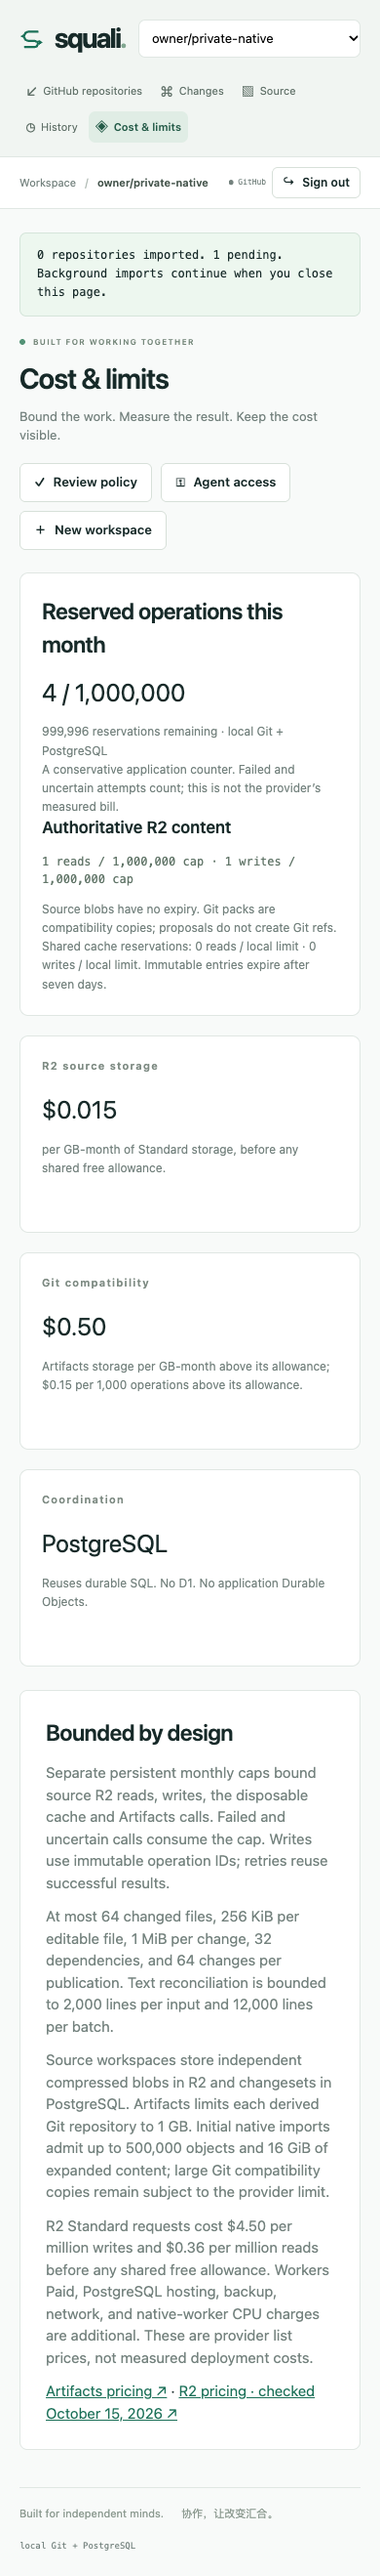
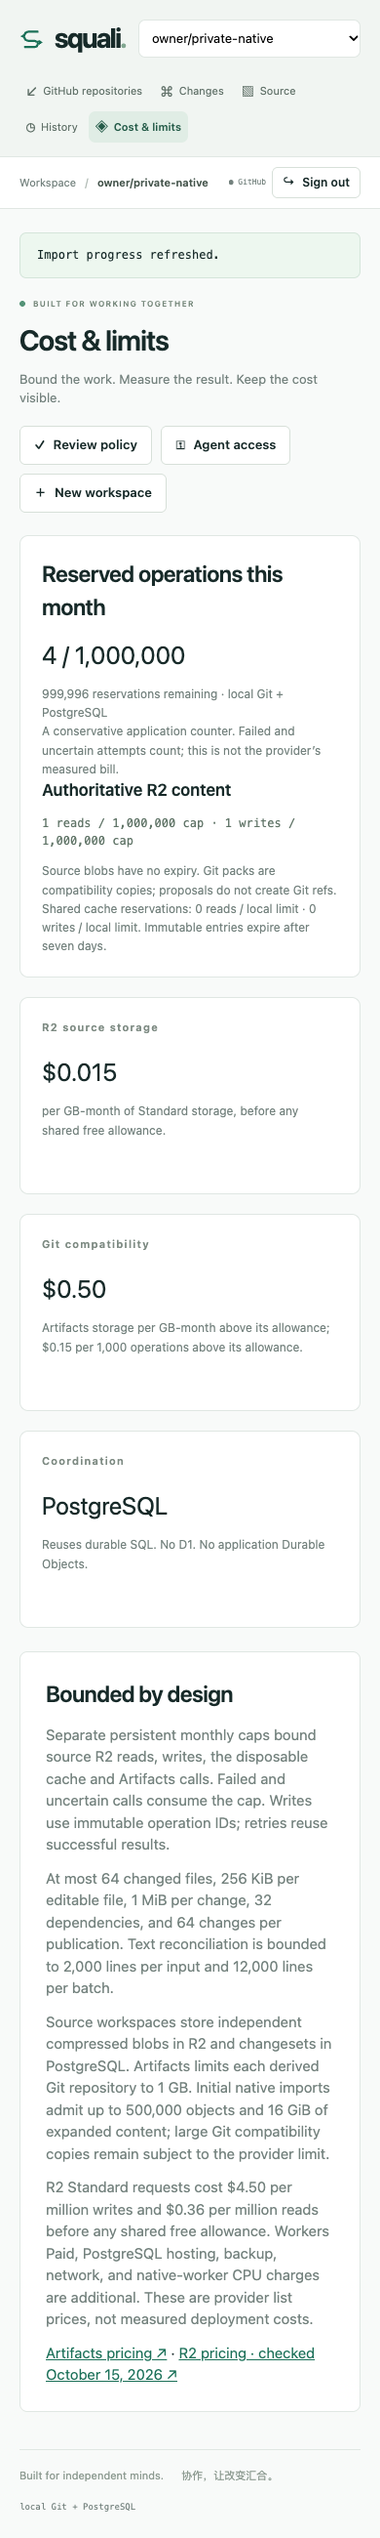
Refresh background import progress and reveal completed workspaces

diff --git a/public/app.js b/public/app.js
@@ -247,8 +247,9 @@ async function renderGitHub() {
   }
   if (!state.githubRepos.length && state.githubNext) await fetchGitHubPage();
   state.imports = (await api('/github/imports')).imports;
+  if (await revealCompletedImports()) return;
   const imported = new Map(state.imports.map(row => [row.repositoryId, row]));
-  $('#content').innerHTML = `<section class="panel"><div class="panel-head"><h2 data-font-gated>GitHub repositories <small>/ ${state.githubRepos.length}${state.githubNext ? '+' : ''}</small></h2></div><div class="panel-body"><p class="muted" data-font-gated>Import independent private copies, including Git history, branches, and tags. GitHub stays unchanged. Only repositories authorized by GitHub are listed.</p><p class="muted" data-font-gated>Git LFS file payloads and submodule repositories are not copied. Their pointers and links remain in Git. ${state.nativeImports?'Native imports: up to 2 GiB of Git storage, 500,000 objects, and 16 GiB of expanded content.':'Legacy imports: up to 512 MiB per transfer.'} Workspace and monthly operation caps also apply.</p><div class="import-actions"><button class="button primary" id="import-all" aria-label="Import all repositories"><span aria-hidden="true">↙</span>${gate('Import all repositories')}</button><button class="button" id="import-selected" aria-label="Import selected"><span aria-hidden="true">＋</span>${gate('Import selected')}</button><button class="button" id="import-resume" aria-label="Resume pending imports"><span aria-hidden="true">↻</span>${gate('Resume pending')}</button><button class="button" id="import-pause" aria-label="Pause imports"><span aria-hidden="true">Ⅱ</span>${gate('Pause')}</button></div><div id="import-progress" role="status" class="notice">${state.imports.filter(r => r.state === 'complete').length} complete · ${state.imports.filter(r => r.state !== 'complete').length} pending</div></div><div class="repository-list">${state.githubRepos.map(repo => { const job = imported.get(repo.id); return `<label class="repository-row"><input type="checkbox" value="${repo.id}" aria-label="Select ${escape(repo.full_name)}" ${job?.state === 'complete' ? 'disabled' : ''}><span><strong data-font-gated>${escape(repo.full_name)}</strong><span class="muted repository-meta" data-font-gated>${repo.private ? 'Private' : 'Public'} · ${escape(repo.default_branch || 'Empty')} · ${Number(repo.size).toLocaleString()} KiB</span>${job?.error ? `<span class="notice error">${escape(job.error)}</span>` : ''}</span>${tag(job?.state ?? 'available')}</label>`; }).join('')}</div>${state.githubNext ? '<div class="panel-body"><button class="button" id="github-more" aria-label="Load more repositories">↓ '+gate('Load more')+'</button></div>' : ''}</section>`;
+  $('#content').innerHTML = `<section class="panel"><div class="panel-head"><h2 data-font-gated>GitHub repositories <small>/ ${state.githubRepos.length}${state.githubNext ? '+' : ''}</small></h2></div><div class="panel-body"><p class="muted" data-font-gated>Import independent private copies, including Git history, branches, and tags. GitHub stays unchanged. Only repositories authorized by GitHub are listed.</p><p class="muted" data-font-gated>Git LFS file payloads and submodule repositories are not copied. Their pointers and links remain in Git. ${state.nativeImports?'Native imports: up to 2 GiB of Git storage, 500,000 objects, and 16 GiB of expanded content.':'Legacy imports: up to 512 MiB per transfer.'} Workspace and monthly operation caps also apply.</p><div class="import-actions"><button class="button primary" id="import-all" aria-label="Import all repositories"><span aria-hidden="true">↙</span>${gate('Import all repositories')}</button><button class="button" id="import-selected" aria-label="Import selected"><span aria-hidden="true">＋</span>${gate('Import selected')}</button><button class="button" id="import-refresh" aria-label="Refresh import progress"><span aria-hidden="true">↻</span>${gate('Refresh progress')}</button><button class="button" id="import-resume" aria-label="Resume pending imports"><span aria-hidden="true">↻</span>${gate('Resume pending')}</button><button class="button" id="import-pause" aria-label="Pause imports"><span aria-hidden="true">Ⅱ</span>${gate('Pause')}</button></div><div id="import-progress" role="status" class="notice">${state.imports.filter(r => r.state === 'complete').length} complete · ${state.imports.filter(r => r.state !== 'complete').length} pending</div></div><div class="repository-list">${state.githubRepos.map(repo => { const job = imported.get(repo.id); return `<label class="repository-row"><input type="checkbox" value="${repo.id}" aria-label="Select ${escape(repo.full_name)}" ${job?.state === 'complete' ? 'disabled' : ''}><span><strong data-font-gated>${escape(repo.full_name)}</strong><span class="muted repository-meta" data-font-gated>${repo.private ? 'Private' : 'Public'} · ${escape(repo.default_branch || 'Empty')} · ${Number(repo.size).toLocaleString()} KiB</span>${job?.error ? `<span class="notice error">${escape(job.error)}</span>` : ''}</span>${tag(job?.state ?? 'available')}</label>`; }).join('')}</div>${state.githubNext ? '<div class="panel-body"><button class="button" id="github-more" aria-label="Load more repositories">↓ '+gate('Load more')+'</button></div>' : ''}</section>`;
   for(const job of state.imports){const row=[...document.querySelectorAll('.repository-row')].find(element=>element.querySelector('input')?.value===String(job.repositoryId));if(!row)continue;row.dataset.importId=job.id;const detail=document.createElement('span');detail.className='repository-meta notice import-detail';row.querySelector('strong').parentElement.append(detail);}
   updateImportProgress();scheduleImportPoll();
   if ($('#github-more')) $('#github-more').onclick = e => busy(e.currentTarget, async () => { await fetchGitHubPage(); await renderGitHub(); });
@@ -260,18 +261,24 @@ async function renderGitHub() {
   };
   $('#import-all').onclick = e => busy(e.currentTarget, () => enqueue(true));
   $('#import-selected').onclick = e => busy(e.currentTarget, () => enqueue(false));
+  $('#import-refresh').onclick = e => busy(e.currentTarget,async()=>{state.imports=(await api('/github/imports')).imports;state.importPolls=0;await revealCompletedImports();updateImportProgress();scheduleImportPoll();status('Import progress refreshed.');});
   $('#import-resume').onclick = e => busy(e.currentTarget, continueImports);
   $('#import-pause').onclick = e => busy(e.currentTarget,async()=>{state.importStop=true;clearTimeout(state.importTimer);const rows=(await api('/github/imports')).imports;for(const row of rows.filter(r=>r.engine==='source'&&['queued','running','pausing'].includes(r.state)))await api('/github/imports/'+row.id+'/pause',{});await renderGitHub();status(state.imports.some(r=>r.state==='pausing')?'Pausing. Uploaded objects and native Git cache will be saved.':'Paused. Uploaded objects and native Git cache are saved.');});
 }
+async function revealCompletedImports(){
+  if (!state.imports.some(job => job.state === 'complete' && !state.projects.some(project => project.id === job.projectId))) return false;
+  await loadProjects();
+  return true;
+}
 function updateImportProgress(){
  const summary=$('#import-progress');if(!summary)return;
- const completed=state.imports.filter(r=>r.state==='complete').length;summary.textContent=`${completed} complete · ${state.imports.length-completed} pending`;
+ const completed=state.imports.filter(r=>r.state==='complete').length;summary.textContent=`${completed} complete · ${state.imports.length-completed} pending${state.importPolls>=240?' · Automatic updates paused. Use Refresh progress to check again.':''}`;
  for(const job of state.imports){const row=document.querySelector(`[data-import-id="${job.id}"]`);if(!row)continue;const detail=row.querySelector('.import-detail'),badge=row.querySelector('.badge'),p=job.progress;badge.textContent=job.state;detail.textContent=job.engine==='source'?`${p?.stage??job.state}${p?.sourceObjects?' · '+Number(p.objectsProcessed??0).toLocaleString()+' / '+Number(p.sourceObjects).toLocaleString()+' objects':''}${p?.commitsProcessed?' · '+Number(p.commitsProcessed).toLocaleString()+' changesets':''} · Native attempts: ${job.nativeAttempts} / 3`:`Transfer attempts: ${job.attempts} / 3`;if(job.state==='complete')row.querySelector('input').disabled=true;}
 }
 function scheduleImportPoll(){
  clearTimeout(state.importTimer);
  if(state.view!=='github'||document.hidden||state.importPolls>=240||!state.imports.some(r=>r.engine==='source'&&['queued','running','pausing'].includes(r.state)))return;
- const generation=state.authGeneration;state.importTimer=setTimeout(async()=>{if(state.view!=='github'||document.hidden||generation!==state.authGeneration)return;try{state.importPolls++;const value=await api('/github/imports');if(generation!==state.authGeneration)return;state.imports=value.imports;updateImportProgress();scheduleImportPoll();}catch(error){status(error.message,true);}},15000);
+ const generation=state.authGeneration;state.importTimer=setTimeout(async()=>{if(state.view!=='github'||document.hidden||generation!==state.authGeneration)return;try{state.importPolls++;const value=await api('/github/imports');if(generation!==state.authGeneration)return;state.imports=value.imports;await revealCompletedImports();updateImportProgress();scheduleImportPoll();}catch(error){status(error.message,true);}},15000);
 }
 document.addEventListener('visibilitychange',scheduleImportPoll);
 async function continueImports() {

diff --git a/tests/native-jobs.test.ts b/tests/native-jobs.test.ts
@@ -36,8 +36,9 @@ test('one-click private imports run outside the browser, preserve native history
   const calls=credentialCalls;assert.equal((await call('/github/imports/'+job.id+'/run',{})).body.state,'complete');assert.equal(transfers,1);assert.equal(credentialCalls,calls);
   assert.equal((await call('/github/imports',undefined,'other')).body.imports.length,0);assert.equal((await call('/projects/'+job.projectId,undefined,'other')).status,403);
   await server.sql`UPDATE weave_github_imports SET state='queued',attempts=3 WHERE id=${job.id}`;await server.sql`UPDATE weave_native_jobs SET state='queued',progress=${server.sql.json({stage:'objects',objectsProcessed:128,sourceObjects:256,commitsProcessed:0,uploadedBytes:4096})} WHERE import_id=${job.id}`;
+  await server.sql`UPDATE weave_projects SET state='importing' WHERE id=${job.projectId}`;
   const {chromium}=await import('@playwright/test');const browser=await chromium.launch({executablePath:process.env.SQUALI_BROWSER??(process.platform==='darwin'?'/Applications/Brave Browser.app/Contents/MacOS/Brave Browser':'/usr/bin/google-chrome'),headless:true});
-  try{const page=await browser.newPage();page.setDefaultTimeout(5000);await page.route('https://use.typekit.net/**',r=>r.abort());await page.route('https://'+domain+'/**',r=>r.fulfill({contentType:'application/javascript',body:`window.Clerk={user:{id:'owner',externalAccounts:[{provider:'github',approvedScopes:'repo'}]},session:{getToken:async()=>${JSON.stringify(token())}},load:async()=>{},addListener:()=>{}};`}));await page.goto(server.url);await page.getByText('128 / 256 objects',{exact:false}).waitFor();await page.getByRole('button',{name:'Pause imports',exact:true}).click();await page.getByText('Paused. Uploaded objects and native Git cache are saved.',{exact:true}).waitFor();assert.equal((await call('/github/imports')).body.imports[0].state,'paused');await page.getByRole('button',{name:'Resume pending imports',exact:true}).click();await page.getByText('Background imports continue when you close this page.',{exact:false}).waitFor();assert.equal((await call('/github/imports')).body.imports[0].state,'queued');await page.setViewportSize({width:390,height:844});assert.equal(await page.evaluate(()=>document.documentElement.scrollWidth<=innerWidth),true);await page.screenshot({path:'docs/evidence/2026-10-15-source/native-import-mobile.png',fullPage:true});await page.getByRole('button',{name:'Cost & limits',exact:true}).click();await page.getByTestId('source-reads').waitFor();const usage=(await call('/usage')).body;assert.equal(await page.getByTestId('source-reads').textContent(),usage.source.reads.toLocaleString());assert.equal(await page.getByTestId('source-writes').textContent(),usage.source.writes.toLocaleString());await page.screenshot({path:'docs/evidence/2026-10-15-source/source-cost-mobile.png',fullPage:true});}finally{await browser.close();}
+  try{const page=await browser.newPage();page.setDefaultTimeout(5000);await page.route('https://use.typekit.net/**',r=>r.abort());await page.route('https://'+domain+'/**',r=>r.fulfill({contentType:'application/javascript',body:`window.Clerk={user:{id:'owner',externalAccounts:[{provider:'github',approvedScopes:'repo'}]},session:{getToken:async()=>${JSON.stringify(token())}},load:async()=>{},addListener:()=>{}};`}));await page.goto(server.url);await page.getByText('128 / 256 objects',{exact:false}).waitFor();let runCalls=0;page.on('request',request=>{if(request.url().endsWith('/run'))runCalls++;});await server.sql`UPDATE weave_native_jobs SET progress=${server.sql.json({stage:'objects',objectsProcessed:192,sourceObjects:256})} WHERE import_id=${job.id}`;await page.getByRole('button',{name:'Refresh import progress',exact:true}).click();await page.getByText('192 / 256 objects',{exact:false}).waitFor();assert.equal(runCalls,0,'Refreshing progress must not resume or retry a job');await page.getByRole('button',{name:'Pause imports',exact:true}).click();await page.getByText('Paused. Uploaded objects and native Git cache are saved.',{exact:true}).waitFor();assert.equal((await call('/github/imports')).body.imports[0].state,'paused');await page.getByRole('button',{name:'Resume pending imports',exact:true}).click();await page.getByText('Background imports continue when you close this page.',{exact:false}).waitFor();assert.equal((await call('/github/imports')).body.imports[0].state,'queued');await server.sql`UPDATE weave_projects SET state='ready' WHERE id=${job.projectId}`;await server.sql`UPDATE weave_github_imports SET state='complete' WHERE id=${job.id}`;await server.sql`UPDATE weave_native_jobs SET state='complete' WHERE import_id=${job.id}`;await page.getByRole('button',{name:'Refresh import progress',exact:true}).click();await page.locator('#workspace option[value="'+job.projectId+'"]').waitFor({state:'attached'});assert.equal(await page.locator('#workspace').inputValue(),job.projectId,'A completed background import becomes selectable without reloading the page');await page.setViewportSize({width:390,height:844});assert.equal(await page.evaluate(()=>document.documentElement.scrollWidth<=innerWidth),true);await page.screenshot({path:'docs/evidence/2026-10-15-source/native-import-mobile.png',fullPage:true});await page.getByRole('button',{name:'Cost & limits',exact:true}).click();await page.getByTestId('source-reads').waitFor();const usage=(await call('/usage')).body;assert.equal(await page.getByTestId('source-reads').textContent(),usage.source.reads.toLocaleString());assert.equal(await page.getByTestId('source-writes').textContent(),usage.source.writes.toLocaleString());await page.screenshot({path:'docs/evidence/2026-10-15-source/source-cost-mobile.png',fullPage:true});}finally{await browser.close();}
   console.log(JSON.stringify({command:'node --import tsx --test tests/native-jobs.test.ts',private:true,backgroundNativeJob:true,nativeTransfers:1,completedReplayTransfers:0,branchesAndTags:4,ownerIsolation:true,credentialsKeptOffBrowser:true,competingRunnerRejected:true,pauseBeforeStart:true}));
  }finally{releaseCredential();await server.close();await source.close();await new Promise<void>(done=>provider.close(()=>done()));}
 });

diff --git a/docs/readiness.md b/docs/readiness.md
@@ -11,11 +11,11 @@
 - Source-backed rebase, semantic approval and Git export work with a single database connection. Export transfers do not hold database transactions. A slow export does not block another workspace or allow duplicate export.
 - Local 64-change/8-client source sample: 318.19 changes/s, p95 95.93 ms, zero new blob writes during publication. These are local measurements, not cloud throughput. Batch sealing 128 commits uses 21 SQL queries versus the earlier 1,793.
 - Mobile UI, workflow, failure fallback and warm Adobe glyph selection have saved browser evidence. Cold Adobe CSS exceeded its 2.8-second budget in one run; fallback remained stable. The latest copy-verification run activated Adobe on a cold navigation in 2.468 seconds; the reviewer action completed in 2.607 seconds. Proxima Nova Latin and platform PingFang SC CJK were confirmed through CDP. Earlier failures remain retained.
-- Latest Worker: `a428c389-bc06-42c8-b2f8-53b9a2d6b10e`, at https://squa.li. The legacy workers.dev and preview URLs remain disabled. Source R2 objects have no expiry; disposable cache objects expire after seven days. No D1 or application Durable Object.
+- Latest Worker: `e1f856e1-0fb9-4492-85b5-8d2f7a070dac`, at https://squa.li. The legacy workers.dev and preview URLs remain disabled. Source R2 objects have no expiry; disposable cache objects expire after seven days. No D1 or application Durable Object.
 
 ## Still required before submission
 
-1. Finish and independently verify the private fixture: 85,563 commits, 1,020 refs, 421,219 objects and 8.33 GB raw data. Source fsck passed. Ingestion recovered its one uncertain blob through a retained native cache/journal and is at 211,968 / 421,219 objects as of 2026-10-14 21:59 UTC. Do not reset the three older legacy attempts or repeat the GitHub clone.
+1. Finish and independently verify the private fixture: 85,563 commits, 1,020 refs, 421,219 objects and 8.33 GB raw data. Source fsck passed. Ingestion recovered its one uncertain blob through a retained native cache/journal and is at 267,776 / 421,219 objects as of 2026-10-14 22:26 UTC. Do not reset the three older legacy attempts or repeat the GitHub clone.
 2. Finish the private workspace end-to-end verification after import. Real production GitHub login and repository discovery now pass: 97 authorized repositories are listed, and the retained private job is visible as running. No new whole-repository transfer was triggered for this browser check.
 3. Finish final object/ref/native-Git comparisons and cost reconciliation. A real 64-change/8-client cloud sample and a smaller post-optimization smoke are retained. Reconcile provider metrics with application reservations; account for Azure capacity and ongoing storage.
 4. Reconcile every fixed Scion checklist item and its explicit limits. Tree, generation, graph, path and blame results now share the versioned dependency engine; head-only rebuilding, merge parents, resource limits and zero additional blob I/O pass E2E. Do not count partial work as complete.

diff --git a/docs/github-import.md b/docs/github-import.md
@@ -9,8 +9,8 @@ Clerk production keys, domains and GitHub OAuth are configured. The current prod
 1. Continue with GitHub through Clerk's hosted account portal. Identity sign-in requests `read:user` and `user:email`.
 2. Open **GitHub repositories**, then explicitly **Grant repository access**. Import requires GitHub's `repo` scope. GitHub describes it as read/write access; Squali only reads the source repository. Organization restrictions and SSO authorization still apply.
 3. Select repositories or choose **Import all repositories**. The latter walks catalog pages and enqueues deduplicated identities under the deployment caps.
-4. With native imports enabled, one existing native runner consumes the durable PostgreSQL queue. Closing the browser does not cancel the job. Pause requests stop the active child and preserve the cache/journal; resume is explicit. Visible progress refreshes every 15 seconds with a finite per-document polling budget.
-5. Completed repositories become private workspaces against the original default branch. Propose, review and publish changes. An empty repository can receive its first commit through the same workflow.
+4. With native imports enabled, one existing native runner consumes the durable PostgreSQL queue. Closing the browser does not cancel the job. Pause requests stop the active child and preserve the cache/journal; resume is explicit. Visible progress refreshes every 15 seconds, with at most 240 automatic polls per document or explicit refresh window. **Refresh progress** reads the current status and starts a new bounded window; it never starts, resumes or retries a transfer. The page explains when automatic updates pause.
+5. Completed repositories appear in the workspace selector without a page reload and become private workspaces against the original default branch. Propose, review and publish changes. An empty repository can receive its first commit through the same workflow.
 6. **Agent access** issues a role-specific credential for one workspace. Tokens expire in 1–30 days, are revocable and are revealed once. Only digests are stored. Optional directory prefixes narrow access. Legacy wildcard credentials do not gain access to personal workspaces.
 
 ## What is copied

diff --git a/docs/evidence/2026-10-15-source/README.md b/docs/evidence/2026-10-15-source/README.md
@@ -88,3 +88,9 @@ The FUSE mount is currently immutable/read-only; writable edits use the existing
 - `derived-blame-typecheck.txt`, `derived-blame-build.txt` and `derived-blame-deploy.txt`: current verification and production Worker `a428c389-bc06-42c8-b2f8-53b9a2d6b10e`.
 
 - `verify-canonical-red.txt` / `verify-canonical-green.txt`: the final import verifier now checks a deterministic canonical-delta sample separately from Git export. The local E2E proves exact deltas/parents/content hashes/raw metadata and deliberately corrupts a canonical content address; verification stops before a second Git transfer. Production is limited to eight sampled changesets, still within 40 API attempts and one clone.
+
+- `import-refresh-red.txt` / `import-refresh-green.txt`: the private-import browser flow has a distinct read-only progress refresh. The E2E advances the persisted job counter, refreshes it visibly, and asserts zero `/run` requests before exercising explicit pause/resume. The mobile screenshot includes the new control. Font tokens and loader are reused.
+
+- `import-completion-red.txt` / `import-completion-green.txt`: `node --import tsx --test tests/native-jobs.test.ts` first reproduces the missing completed workspace, then verifies that read-only refresh adds it to the selector without a reload. The same transition is shared by automatic polling and catalog navigation. `import-completion-typecheck.txt`, `import-completion-build.txt` and `import-completion-deploy.txt` record checks and Worker `e1f856e1-0fb9-4492-85b5-8d2f7a070dac`.
+
+- `production-import-refresh.json` / `.png`: real Clerk session, deployed refresh control, success feedback and the retained private job at 270,208 / 421,219 objects. Only progress was read; no job was restarted.
